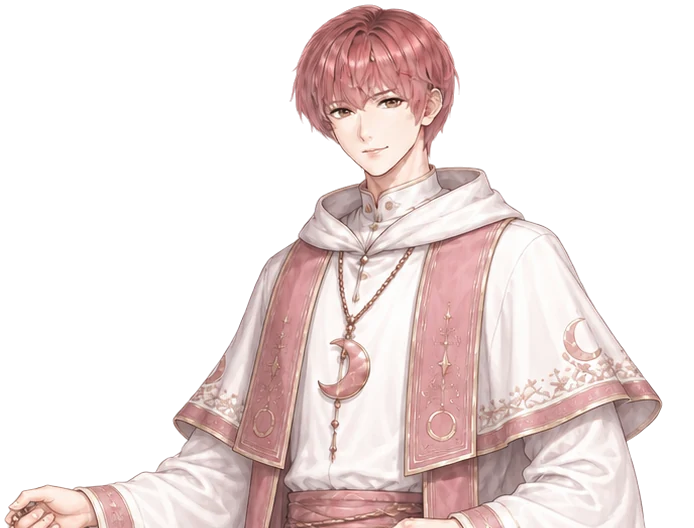
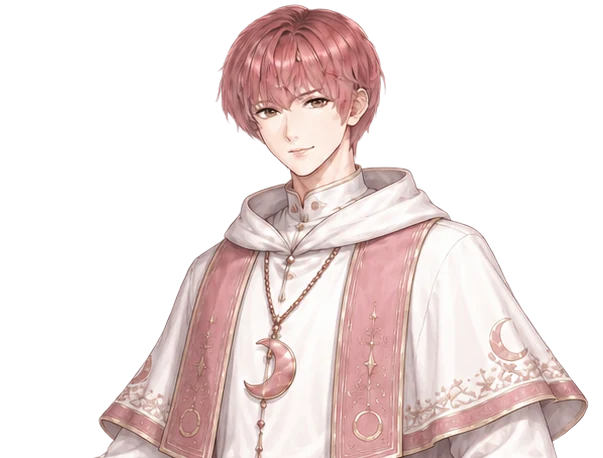
赤い月(男性)の胸像を 1.15 倍に拡大して切り出す (#212)
アーキタイプ一覧で他より小さく見えるとの要望。胸像に個別の拡大倍率(BUST_ZOOM)を
設けて、頭の上端を固定し頭の中心を軸に左右と下を切るようにした。作り直したのは
このファイルだけ(他の胸像は変えていない)。

diff --git a/scripts/generateSealCutouts.py b/scripts/generateSealCutouts.py
@@ -123,6 +123,27 @@ BUST_KEEP_MIN: dict[tuple[int, str], float] = {
 }
 
 
+# 胸像(bust)を個別に拡大して切り出す倍率。体まわりが広く、胸像が他より小さく見えるキャラクター用。
+# 頭の上端は固定し、頭の中心を軸に左右と下を切る(縦横比は変わらない)。キーは BUST_KEEP_MIN と同じ。
+# 2026-11-22: 赤い月(男性)が小さく見えるとの要望で 1.15 倍にした。
+BUST_ZOOM: dict[tuple[int, str], float] = {
+    (8, '-male'): 1.15,   # 赤い月(男性)
+}
+
+
+def zoom_bust(im: Image.Image, zoom: float) -> Image.Image:
+    if zoom == 1:
+        return im
+    w, h = im.size
+    cw, ch = round(w / zoom), round(h / zoom)
+    # 頭の中心 = 上から 12% までの不透明部分の左右の中央(杖などの細いものは無視できる程度)
+    a = im.getchannel('A').crop((0, 0, w, max(1, round(h * 0.12))))
+    bbox = a.point(lambda v: 255 if v > 40 else 0).getbbox()
+    cx = (bbox[0] + bbox[2]) / 2 if bbox else w / 2
+    left = min(max(0, round(cx - cw / 2)), w - cw)
+    return im.crop((left, 0, left + cw, ch))
+
+
 def keep_body_bust(full: Image.Image, keep: float, target_ar: float) -> Image.Image:
     slice_ = alpha_crop(full.crop((0, 0, full.width, round(full.height * keep))), pad=4)
     w, h = slice_.size
@@ -244,6 +265,7 @@ def main():
 
         keep = BUST_KEEP_MIN.get((seal_index, suffix))
         bust = keep_body_bust(full_unpadded, keep, target_bust_ar) if keep else normalize_bust_ar(bust_slice, target_bust_ar)
+        bust = zoom_bust(bust, BUST_ZOOM.get((seal_index, suffix), 1))
         bust_path = os.path.join(OUT_DIR, f'seal-{seal_index}-bust{suffix}.webp')
         bust.save(bust_path, 'WEBP', quality=88, method=6)
 
